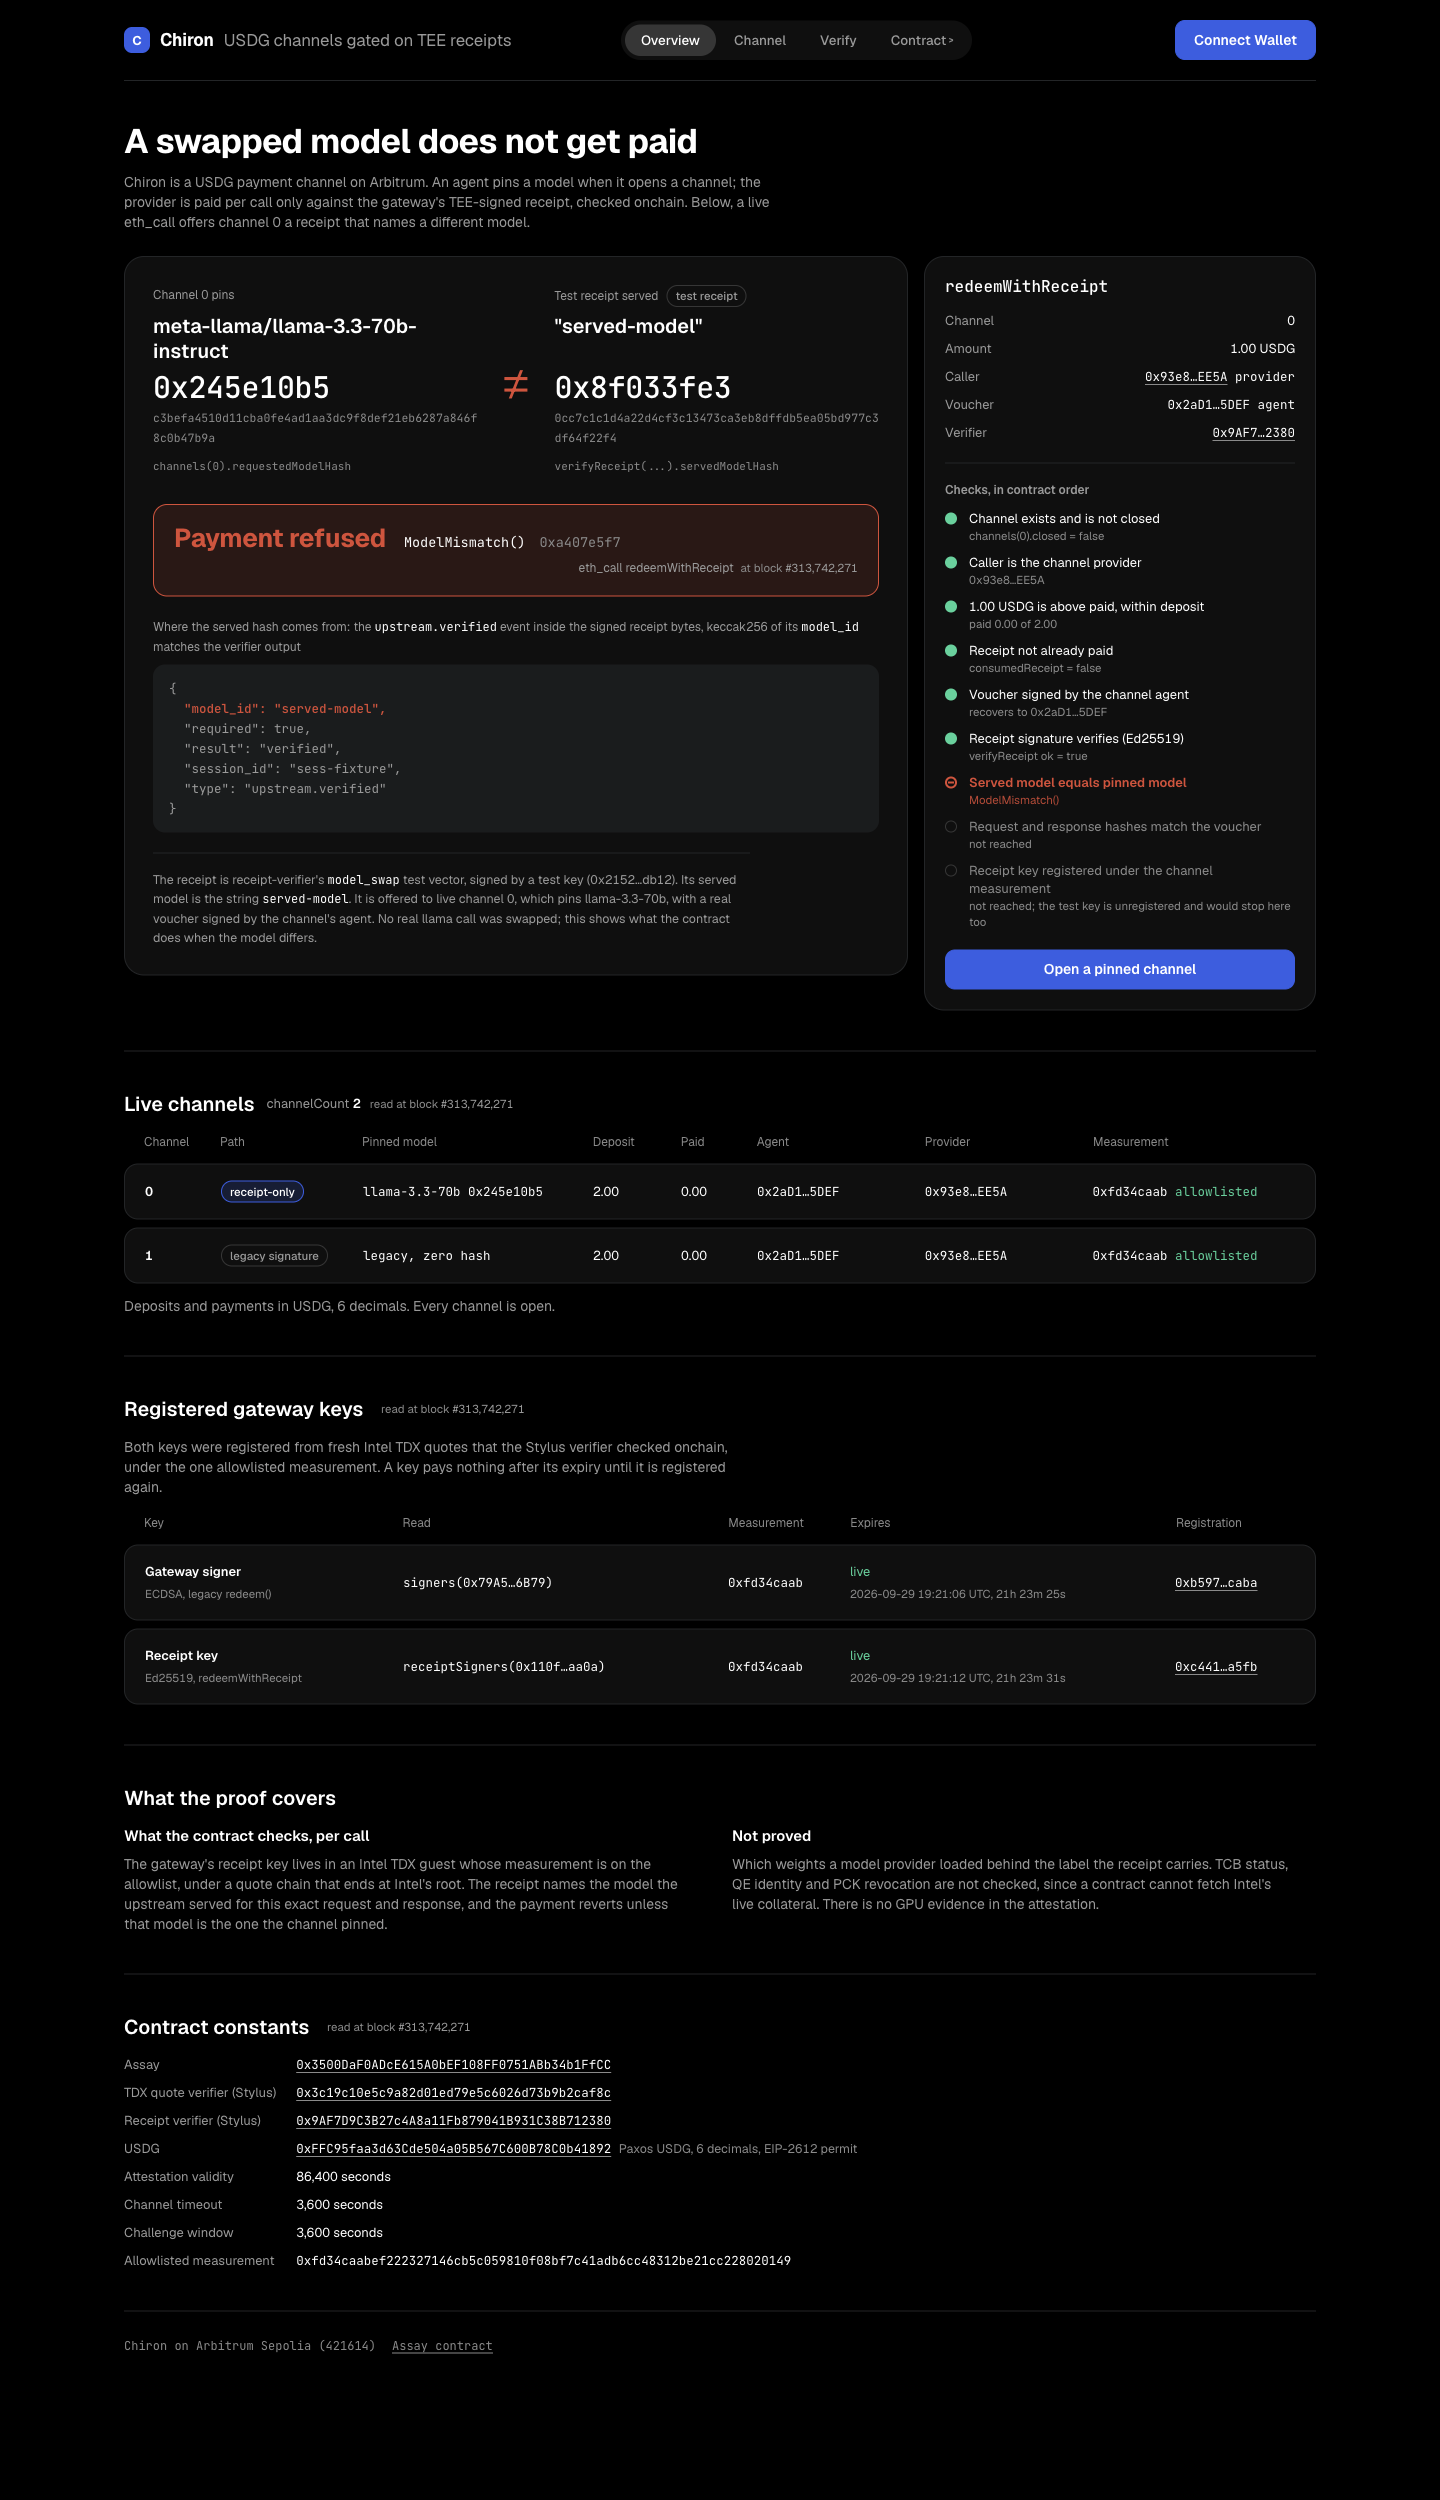
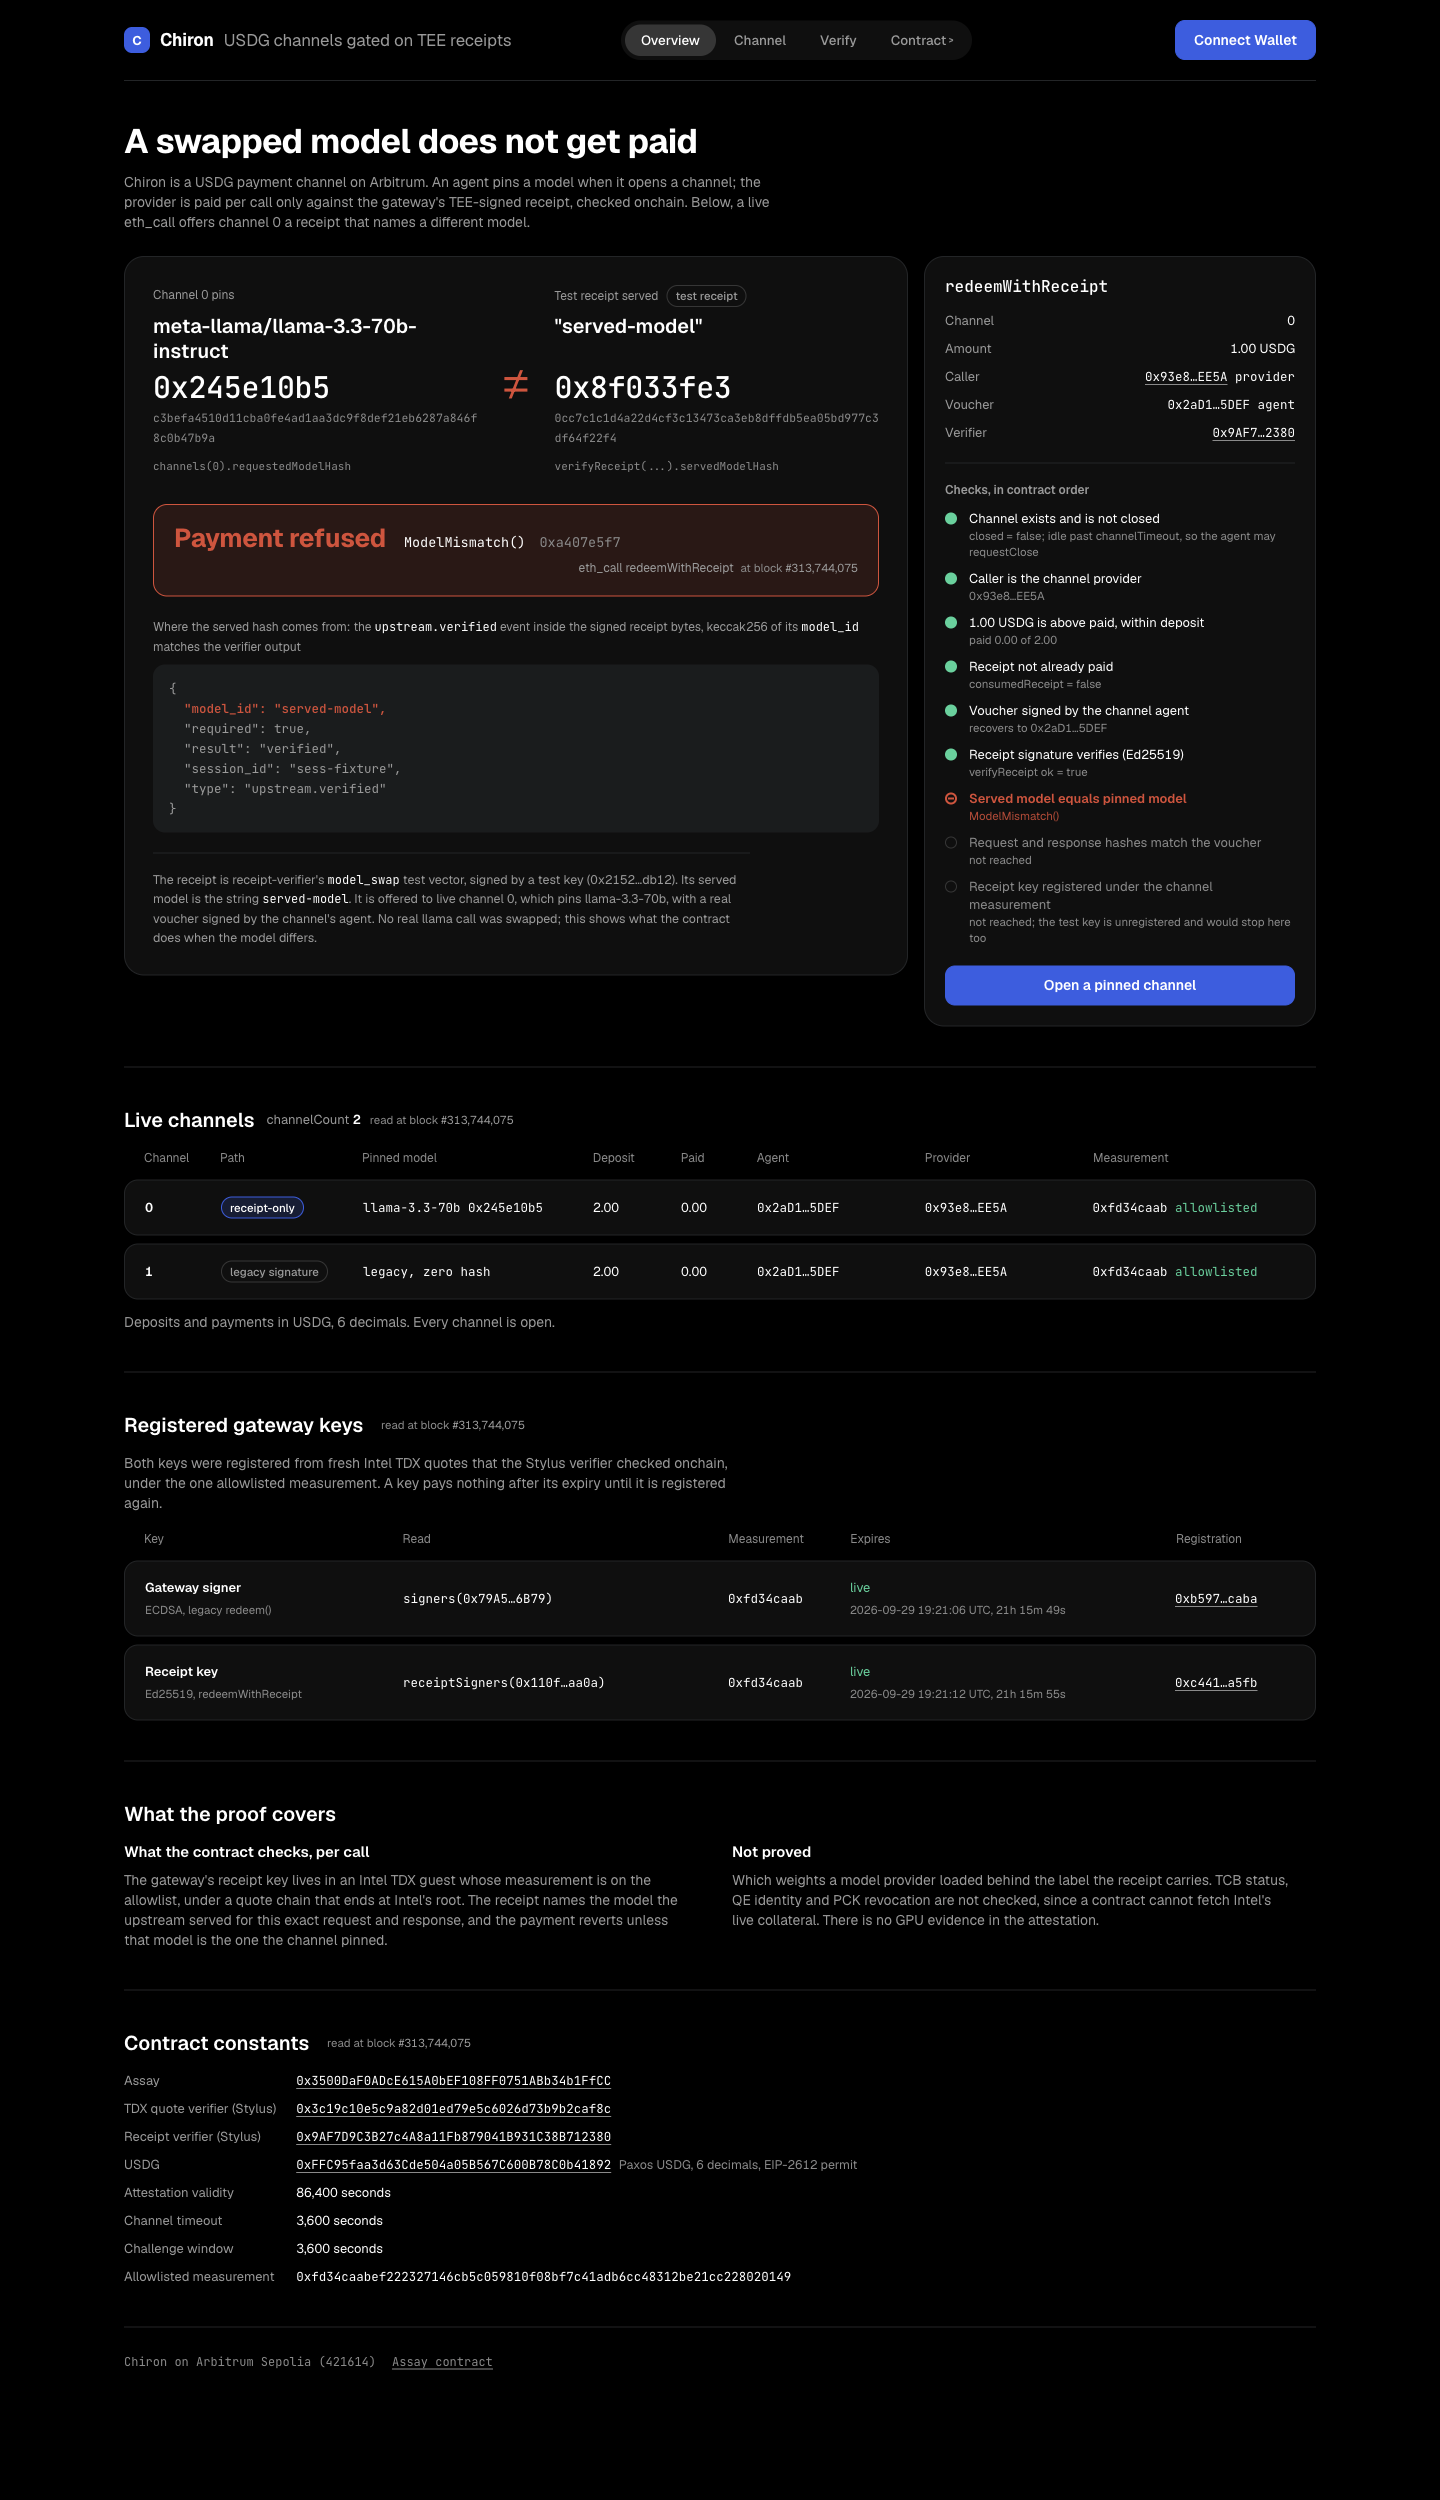
web: judge round 2 fixes: Verify keeps its reading-on card and how-it-works beside the steps; overview names channel 0's idle state

diff --git a/web/src/pages/Verify.tsx b/web/src/pages/Verify.tsx
@@ -289,7 +289,7 @@ export function Verify() {
 
   return (
     <main>
-      <div className="page-head">
+      <div className="ov-head">
         <div>
           <h1>Verify an attestation</h1>
           <p className="lede">
@@ -299,27 +299,9 @@ export function Verify() {
             onchain until you transact.
           </p>
         </div>
-        <div className="device">
-          <h3>Verifying on</h3>
-          <div className="stat">
-            <div className="lab">Network</div>
-            <div className="val">{assayChain.name}</div>
-          </div>
-          <div className="stat">
-            <div className="lab">Assay contract</div>
-            <div className="val mono" style={{ fontSize: 13 }}>
-              <a href={explorer.address(ASSAY)} target="_blank" rel="noreferrer">{short(ASSAY)}</a>
-            </div>
-          </div>
-          <div className="stat">
-            <div className="lab">Stylus verifier</div>
-            <div className="val mono" style={{ fontSize: 13 }}>
-              <a href={explorer.address(VERIFIER_ADDRESS)} target="_blank" rel="noreferrer">{short(VERIFIER_ADDRESS)}</a>
-            </div>
-          </div>
-        </div>
       </div>
-
+      <div className="v-grid">
+        <div className="v-main">
       <section className="section" aria-labelledby="v-nonce">
         <div className="section-head">
           <h2 id="v-nonce"><span className="step-n">1.</span> Contract-issued nonce</h2>
@@ -551,8 +533,28 @@ export function Verify() {
           {registerReport && <p className={registerBad ? 'note err' : 'note ok'} role={registerBad ? 'alert' : 'status'}>{registerReport}</p>}
         </section>
       )}
-
-      <section className="section" aria-labelledby="v-reg">
+        </div>
+        <aside className="v-aside">
+        <div className="device">
+          <h3>Verifying on</h3>
+          <div className="stat">
+            <div className="lab">Network</div>
+            <div className="val">{assayChain.name}</div>
+          </div>
+          <div className="stat">
+            <div className="lab">Assay contract</div>
+            <div className="val mono" style={{ fontSize: 13 }}>
+              <a href={explorer.address(ASSAY)} target="_blank" rel="noreferrer">{short(ASSAY)}</a>
+            </div>
+          </div>
+          <div className="stat">
+            <div className="lab">Stylus verifier</div>
+            <div className="val mono" style={{ fontSize: 13 }}>
+              <a href={explorer.address(VERIFIER_ADDRESS)} target="_blank" rel="noreferrer">{short(VERIFIER_ADDRESS)}</a>
+            </div>
+          </div>
+        </div>
+      <section className="v-how" aria-labelledby="v-reg">
         <div className="section-head">
           <h2 id="v-reg">How registration works</h2>
         </div>
@@ -568,6 +570,8 @@ export function Verify() {
           <a href={explorer.tx(REGISTER_TX)} target="_blank" rel="noreferrer">this transaction</a>.
         </p>
       </section>
+        </aside>
+      </div>
     </main>
   );
 }

diff --git a/web/src/pages/Overview.tsx b/web/src/pages/Overview.tsx
@@ -65,16 +65,18 @@ type ChannelRow = {
   provider: Address;
   deposit: bigint;
   paid: bigint;
+  openedAt: bigint;
+  lastActivityAt: bigint;
   closed: boolean;
   measurement: Hex;
   requestedModelHash: Hex;
 };
 
 function toChannel(id: number, raw: unknown): ChannelRow {
-  const [agent, provider, deposit, paid, , , , closed, measurement, requestedModelHash] = raw as readonly [
+  const [agent, provider, deposit, paid, openedAt, lastActivityAt, , closed, measurement, requestedModelHash] = raw as readonly [
     Address, Address, bigint, bigint, bigint, bigint, bigint, boolean, Hex, Hex,
   ];
-  return { id, agent, provider, deposit, paid, closed, measurement, requestedModelHash };
+  return { id, agent, provider, deposit, paid, openedAt, lastActivityAt, closed, measurement, requestedModelHash };
 }
 
 /** The receipt's upstream.verified event, read from the exact bytes the ReceiptVerifier checks. */
@@ -96,9 +98,10 @@ async function readRefusal(c: PublicClient, block: bigint) {
   };
   const channelId = BigInt(d.channelId);
   const amount = BigInt(d.cumulativeAmount);
-  const [chRaw, receiptVerifier] = await Promise.all([
+  const [chRaw, receiptVerifier, channelTimeout] = await Promise.all([
     c.readContract({ address: ASSAY, abi: assayAbi, functionName: 'channels', args: [channelId], blockNumber: block }),
     c.readContract({ address: ASSAY, abi: assayAbi, functionName: 'receiptVerifier', blockNumber: block }) as Promise<Address>,
+    c.readContract({ address: ASSAY, abi: assayAbi, functionName: 'channelTimeout', blockNumber: block }) as Promise<bigint>,
   ]);
   const ch = toChannel(d.channelId, chRaw);
   const receiptKey = keccak256(
@@ -163,7 +166,7 @@ async function readRefusal(c: PublicClient, block: bigint) {
   }
 
   return {
-    d, ch, amount, receiptVerifier, consumed, testKeyRegistered: testKeyReg[0] !== ZERO_HASH,
+    d, ch, amount, receiptVerifier, channelTimeout, consumed, testKeyRegistered: testKeyReg[0] !== ZERO_HASH,
     ok, requestedModelHash, servedModelHash, receiptRequestHash, receiptResponseHash, voucherSigner, revert,
     pinnedIsLlama: ch.requestedModelHash.toLowerCase() === keccak256(toHex(PINNED_MODEL_ID)).toLowerCase(),
     upstream: upstreamEvent(d.receiptBytes),
@@ -193,7 +196,10 @@ function RefusalHero() {
     ? [
         {
           label: 'Channel exists and is not closed',
-          detail: `channels(0).closed = ${String(r.ch.closed)}`,
+          detail:
+            q.data && Number(q.data.timestamp) > Number(r.ch.lastActivityAt || r.ch.openedAt) + Number(r.channelTimeout)
+              ? `closed = ${String(r.ch.closed)}; idle past channelTimeout, so the agent may requestClose`
+              : `channels(0).closed = ${String(r.ch.closed)}`,
           mark: r.ch.provider !== ZERO_ADDR && !r.ch.closed ? 'pass' : 'fail',
         },
         {

diff --git a/web/src/styles.css b/web/src/styles.css
@@ -303,6 +303,7 @@ h1, h2, h3 { margin: 0; font-style: normal; }
 .ov-head { padding: 40px 0 24px; }
 .ov-head h1 { font-weight: 700; font-size: 34px; line-height: 1.15; letter-spacing: -0.015em; overflow-wrap: anywhere; }
 .ov-head .lede { margin: 12px 0 0; color: var(--color-muted); max-width: 72ch; }
+.ov-head .lede b { color: var(--color-fg); font-weight: 600; }
 
 .hero-grid {
   display: grid; grid-template-columns: minmax(0, 8fr) minmax(0, 4fr); gap: 16px; align-items: start;
@@ -449,8 +450,17 @@ a.rl-row:focus-visible { outline: 2px solid var(--color-focus); outline-offset: 
 .tile .val { font-size: 17px; font-weight: 600; overflow-wrap: anywhere; }
 .tile .val small { font-size: 12px; font-weight: 400; color: var(--color-dim); }
 
+.v-grid { display: grid; grid-template-columns: minmax(0, 1fr) minmax(280px, 380px); gap: 32px; align-items: start; }
+.v-main { min-width: 0; }
+.v-main > .section:first-child { padding-top: 16px; }
+.v-aside { position: sticky; top: 24px; display: grid; gap: 16px; padding-top: 16px; }
+.v-how { background: var(--color-raise); border: 1px solid var(--color-line); border-radius: var(--radius-panel); padding: 20px; }
+.v-how .section-head { margin-bottom: 10px; }
+.v-how .section-head h2 { font-size: 16px; }
+.v-how .sub { color: var(--color-muted); margin: 0; font-size: 13px; }
 @media (max-width: 980px) {
-  .hero-grid, .ch-grid { grid-template-columns: minmax(0, 1fr); }
+  .hero-grid, .ch-grid, .v-grid { grid-template-columns: minmax(0, 1fr); }
+  .v-aside { position: static; }
 }
 @media (max-width: 900px) {
   .rl-head { display: none; }
